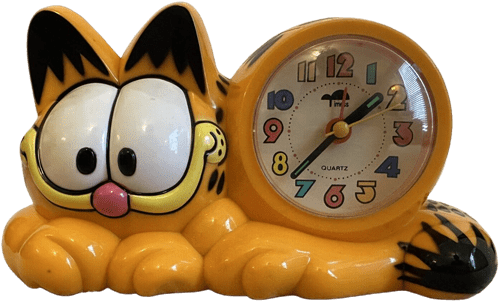
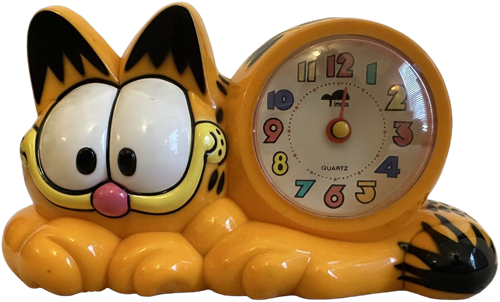
more working garf clocks, why me + well loved plushes

Changed region(s): [[0.57, 0.4172, 0.69, 0.596], [0.69, 0.298, 0.78, 0.4172]]

diff --git a/codecreature.net/shrines/garfield/merch/index.html b/codecreature.net/shrines/garfield/merch/index.html
@@ -143,13 +143,14 @@
 							</td>
 							
 							<td class="item">
-								<img src="../images/merch/plush_mcdonalds.png" alt="Smiling Garfield plush wearing a red McDonald's visor, tie, and striped shirt. He has a Garfield and Company paper tag on his ear."
-									data-caption="1988 McDonald's Manager Plush by Dakin<br>This toy was only available to employees and never sold at retail!">
+								<img src="../images/merch/plush_well_loved.png" alt=""
+									data-caption="Well-loved Garfield<br><a href='https://knowyourmeme.com/memes/well-loved-garfield-plush'>he's so special to me</a>"
+									style="rotate: -8deg; margin-bottom: -1%;">
 							</td>
 							
 							<td class="item">
 								<img src="../images/merch/plush_01.png" alt="A fat, smiling Garfield plush in a sitting pose."
-									data-caption="1981 Plush by Dakin<br>This is the plush from the well-loved Garfield meme!"
+									data-caption="1981 Plush by Dakin<br>The well-loved Garfield plush in mint condition!"
 									style="margin-bottom: -1%; margin-left: -10%; rotate: -6deg;">
 							</td>
 							
@@ -168,20 +169,26 @@
 							</td>
 							
 							<td class="item">
-								<img src="../images/merch/clock_belly_02.png" alt=""
-									data-caption="1980s Alarm Clock<br>He plays various childrens' songs with meowing sound effects! An older version used his nose as the alarm button, but the later versions have the button on top of his head."
-									style="padding-bottom: 2%;">
-							</td>
-							
-							<td class="item">
-								<img src="../images/merch/coin_bank_feed.png" alt="A coin bank of Garfield sitting with a fork and knife raised. He is wearing a red bandana that reads 'Feed the kitty.'"
-									data-caption="1981 Ceramic Coin Bank by Enesco">
+								<div id="belly-clock-2" class="wrapper analog-clock">
+									<img src="../images/merch/clock_belly_02.png" alt=""
+										data-caption="1980s Alarm Clock<br>He plays various childrens' songs with meowing sound effects! An older version used his nose as the alarm button, but the later versions have the button on top of his head."
+										style="padding-bottom: 2%;">
+									<img class="clock-hands minute" src="../images/merch/clock_belly_02_minute.png" alt="">
+									<img class="clock-hands hour" src="../images/merch/clock_belly_02_hour.png" alt="">
+									<img class="clock-hands center" src="../images/merch/clock_belly_02_center.png" alt="">
+									<img class="clock-hands second" src="../images/merch/clock_belly_02_second.png" alt="">
+								</div>
 							</td>
 							
 							<td class="item med">
 								<img src="../images/merch/yoyo.png" alt="A yo-yo in original packaging. The toy is blue and red with a smiling 3D Garfield in the center. The packaging shows Garfield playing with a yo-yo and assorted black and white comic panels as the background."
 									data-caption="1981 Yo-Yo made by Avon.<br>The same toy design was later repackaged and sold by Spectra Star."
 									style="transform: rotate(4deg); padding-left: 5%; padding-bottom: 5%;">
+							</td>
+							
+							<td class="item">
+								<img src="../images/merch/coin_bank_feed.png" alt="A coin bank of Garfield sitting with a fork and knife raised. He is wearing a red bandana that reads 'Feed the kitty.'"
+									data-caption="1981 Ceramic Coin Bank by Enesco">
 							</td>
 						</tr>
 						
@@ -217,8 +224,9 @@
 								<img src="../images/merch/coin_bank.png" alt="A coin bank of Garfield sitting up, crossing his arms with a smirk">
 							</td>
 							
-							<td class="item med">
-								<img src="../images/merch/clock_fat.png" alt="A very round smiling plastic Garfield with a small clock in his belly">
+							<td class="item">
+								<img src="../images/merch/plush_mcdonalds.png" alt="Smiling Garfield plush wearing a red McDonald's visor, tie, and striped shirt. He has a Garfield and Company paper tag on his ear."
+									data-caption="1988 McDonald's Manager Plush by Dakin<br>This toy was only available to employees and never sold at retail!">
 							</td>
 							
 							<td class="item">
@@ -232,6 +240,22 @@
 							</td>
 						</tr>
 						
+						<!-- shelf 6 -->
+						<tr>
+							<td class="item"></td>
+							
+							<td class="item">
+								<img src="../images/merch/plush_why_me.png" alt=""
+									data-caption="1981 'Why Me?' Plush by Dakin">
+							</td>
+							
+							<td class="item med">
+								<img src="../images/merch/clock_fat.png" alt="A very round smiling plastic Garfield with a small clock in his belly">
+							</td>
+							
+							<td class="item"></td>
+						</tr>
+						
 						<!-- end of shelf items -->
 					</tbody>
 				</table>
@@ -242,7 +266,9 @@
 						for (let i = 0; i < items.length; i++) {
 							let images = items[i].getElementsByTagName('img');
 							for (let j = 0; j < images.length; j++) {
-								if (!images[j].classList.contains('no-full-view')) images[j].classList.add('full-viewable');
+								if (!images[j].classList.contains('no-full-view') && !images[j].classList.contains('clock-hands')) {
+									images[j].classList.add('full-viewable');
+								}
 							}
 						}
 					})();
@@ -250,40 +276,14 @@
 				
 				<img id="balloon-embroidery" class="wall-hanging thin-shadow" src="../images/merch/balloon_embroidery.png" alt="">
 				
-				<div class="pendulum-clock wall-hanging">
+				<div class="analog-clock pendulum-clock wall-hanging">
 					<img class="body" src="../images/merch/clock_sunbeam_pendulum.png" alt="">
-					<img id="pendulum-clock-second" class="hands" src="../images/merch/clock_sunbeam_pendulum_second.png" alt="">
-					<img id="pendulum-clock-minute" class="hands" src="../images/merch/clock_sunbeam_pendulum_minute.png" alt="">
-					<img id="pendulum-clock-hour" class="hands" src="../images/merch/clock_sunbeam_pendulum_hour.png" alt="">
-					<img class="hands center" src="../images/merch/clock_sunbeam_pendulum_center.png" alt="">
+					<img class="clock-hands second" src="../images/merch/clock_sunbeam_pendulum_second.png" alt="">
+					<img class="clock-hands minute" src="../images/merch/clock_sunbeam_pendulum_minute.png" alt="">
+					<img class="clock-hands hour" src="../images/merch/clock_sunbeam_pendulum_hour.png" alt="">
+					<img class="clock-hands center" src="../images/merch/clock_sunbeam_pendulum_center.png" alt="">
 					<div class="tail"><img src="../images/merch/clock_sunbeam_pendulum_tail.png" alt=""></div>
 					
-					<script>
-						(()=>{
-							let date = new Date();
-							let hours = date.getHours();
-							let minutes = date.getMinutes();
-							let seconds = date.getSeconds();
-							
-							var secDeg = seconds * 6;
-							var minuteDeg = (minutes * 6) + (seconds * .1);
-							var hourDeg = (hours * 30) + (minutes * .5);
-							
-							var secondHand = document.getElementById("pendulum-clock-second");
-							var minuteHand = document.getElementById("pendulum-clock-minute");
-							var hourHand = document.getElementById("pendulum-clock-hour");
-							function rotateClock() {
-								secDeg += 6;
-								minuteDeg += 0.1;
-								hourDeg += 0.1 / 60;
-								secondHand.style.rotate = secDeg + "deg";
-								minuteHand.style.rotate = minuteDeg + "deg";
-								hourHand.style.rotate = hourDeg + "deg";
-								setTimeout(rotateClock,1000)
-							}
-							rotateClock();
-						})();
-					</script>
 				</div>
 				
 				<div id="light-switch" class="wall-hanging" onclick="document.body.classList.toggle('lights-off');">
@@ -300,6 +300,37 @@
 			</div>
 		</main>
 		
+		<!-- ANALOG CLOCKS SETUP -->
+		<script>
+			(()=>{
+				let date = new Date();
+				let hours = date.getHours();
+				let minutes = date.getMinutes();
+				let seconds = date.getSeconds();
+				
+				var secDeg = seconds * 6;
+				var minuteDeg = (minutes * 6) + (seconds * .1);
+				var hourDeg = (hours * 30) + (minutes * .5);
+				
+				var clocks = document.getElementsByClassName("analog-clock");
+				
+				function rotateClocks() {
+					// update degrees
+					secDeg += 6;
+					minuteDeg += 0.1;
+					hourDeg += 0.1 / 60;
+					// move clocks
+					for (let i = 0; i < clocks.length; i++) {
+						let clock = clocks[i];
+						clock.querySelector(".second").style.rotate = secDeg + "deg";
+						clock.querySelector(".minute").style.rotate = minuteDeg + "deg";
+						clock.querySelector(".hour").style.rotate = hourDeg + "deg";
+					}
+					setTimeout(rotateClocks,1000)
+				}
+				rotateClocks();
+			})();
+		</script>
 	</body>
 	<!--------------END BODY------------->
 </html>

diff --git a/codecreature.net/shrines/garfield/merch/merch.css b/codecreature.net/shrines/garfield/merch/merch.css
@@ -22,14 +22,14 @@
 		
 		.wrapper {
 			width: 100%;
-			height: 100%;
+			height: min(100%, fit-content);
 			display: flex;
 			justify-content: space-around;
 			align-items: flex-end;
 			gap: 5%;
 			padding-bottom: calc(var(--size)*.05);
 			/* enable children shrinking to fit */
-			> * { min-width: 0; }
+			> * { min-width: 0; max-width: 100%; }
 		}
 		
 		/* middle/default */
@@ -82,15 +82,17 @@
 			max-width: 65%;
 		}
 		
-		> img, .wrapper > img { &:hover, &:focus-visible {
+		> img:hover, > img:focus-visible, .wrapper:has(> img:hover), .wrapper:has(> img:focus-visible) {
+			scale: 1.1;
+		}
+		> img:hover, > img:focus-visible, .wrapper > img:hover, .wrapper > img:focus-visible {
 			filter:
 				drop-shadow(3px 4px 2px rgba(0,0,0,.2))
 				drop-shadow(0 0 3px var(--white))
 				drop-shadow(0 0 2px var(--white))
 				drop-shadow(0 0 2px var(--white));
 			outline: 0px;
-			scale: 1.1;
-		} }
+		}
 	}
 	
 	td:first-of-type { width: calc(var(--size)*.9); }
@@ -160,8 +162,44 @@
 .wall-hanging .thin-shadow, .wall-hanging.thin-shadow {
 	filter: drop-shadow(-2px 4px 3px rgba(100,60,31,.5));
 }
-.pendulum-clock {
+
+#balloon-embroidery {
+	width: min(17%,220px);
+  rotate: 1.5deg;
+	@media screen and (width > 1500px) {
+		position: absolute;
+		z-index: 0;
+		top: 80px;
+		right: calc(50% + min(370px, 22.5vw));
+	}
+}
+
+/*** CLOCKS ***/
+
+.analog-clock {
+	position: relative;
+}
+.analog-clock .clock-hands {
 	pointer-events: none;
+	position: absolute;
+	transform-origin: 50% 100%;
+}
+.analog-clock .center {
+	transform: translateY(50%);
+}
+
+#belly-clock-2 .clock-hands {
+	bottom: 57.4%;
+	left: 66.4%;
+	width: 3.6%;
+}
+#belly-clock-2 .second {
+	transform-origin: 50% 80%;
+	left: 66.6%;
+	bottom: 52.8%;
+}
+
+.pendulum-clock {
 	position: relative;
 	@media screen and (width > 1500px) {
 		position: absolute;
@@ -172,15 +210,10 @@
 	margin: 0 auto;
 }
 
-.pendulum-clock .hands {
-	position: absolute;
-	transform-origin: 50% 100%;
+.pendulum-clock .clock-hands {
 	bottom: 51.8%;
 	left: 51.4%;
 	width: 5.4%;
-}
-.pendulum-clock .center {
-	bottom: 50.7%;
 }
 
 .pendulum-clock .tail {
@@ -203,18 +236,11 @@
 	to { rotate: 10deg; }
 }
 
-#balloon-embroidery {
-	width: min(17%,220px);
-  rotate: 1.5deg;
-	@media screen and (width > 1500px) {
-		position: absolute;
-		z-index: 0;
-		top: 80px;
-		right: calc(50% + min(370px, 22.5vw));
-	}
-}
-
 /*** LIGHTS ***/
+
+:root {
+	--lamp-z-index: 4;
+}
 
 #light-switch {
 	@media screen and (width > 1300px) {
@@ -271,10 +297,10 @@ body:not(.lights-off) #shelves .lamp .glow,
 }
 #shelves .lamp .on {
 	position: relative;
-	z-index: 4;
+	z-index: var(--lamp-z-index);
 }
 .lights-off #shelves .lamp .glow {
-	z-index: 3;
+	z-index: calc(var(--lamp-z-index) - 1);
 	bottom: 10%;
 	background: #f2c58c;
 	mix-blend-mode: overlay;
